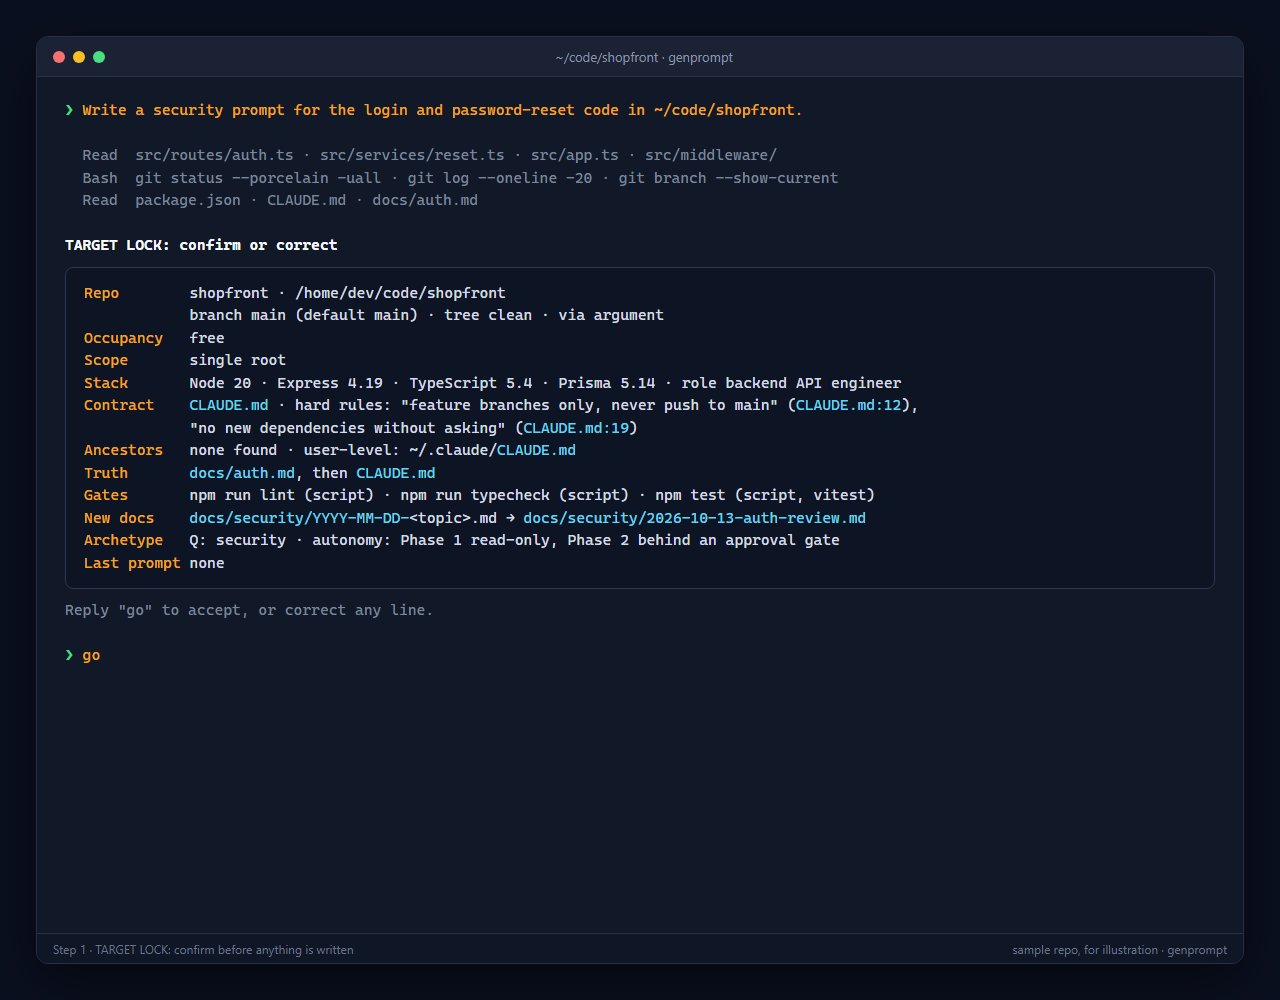
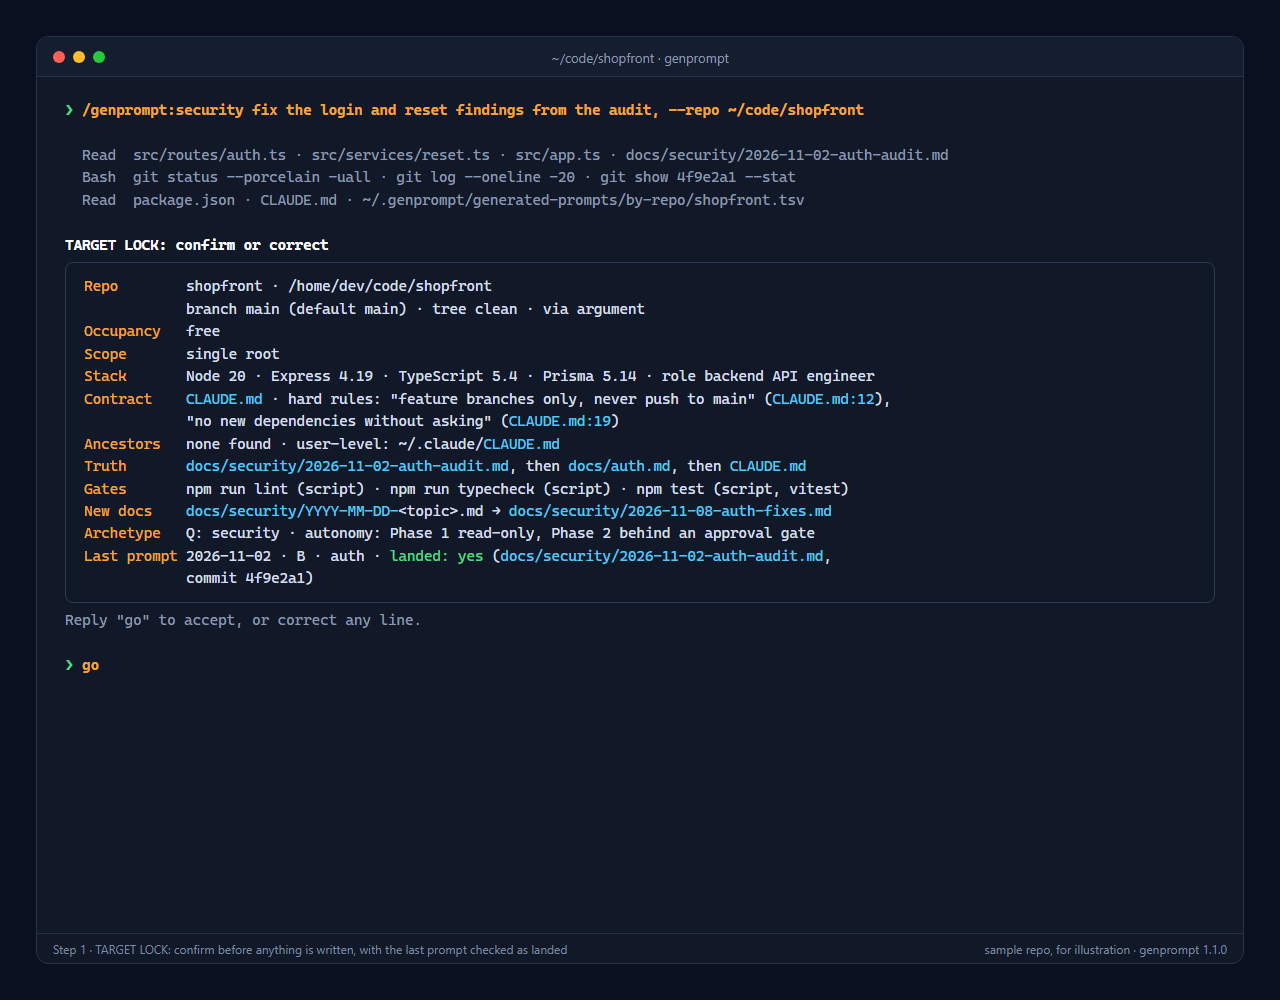
E-17c: refresh screenshots for 1.1.0
The three README screenshots are re-rendered (headless Chrome, 1280x1000,
same terminal style) from the made-up shopfront sample repo, showing the
1.1.0 output shape: the lock's Last prompt line with "landed: yes", the
prompt printed first with because-clauses and the GENPROMPT-REPORT line,
and the compact self-check verdict (22 PASS, 1 N/A, 0 FAIL) with the
one N/A row, the header table, grounding and the archive.py saved path.
README captions and alt text match; "23-row" is back in the alt text.

diff --git a/README.md b/README.md
@@ -32,20 +32,21 @@ Every prompt it writes:
 A security prompt for a made-up sample repo, `shopfront`. Every repo detail in these screenshots is
 invented; the structure is the real output.
 
-**1. The TARGET LOCK.** genprompt reads the repo and shows what it found. Nothing is written until
-you reply `go`.
+**1. The TARGET LOCK.** genprompt reads the repo and shows what it found, including whether the
+last prompt actually landed. Nothing is written until you reply `go`.
 
-![TARGET LOCK for the sample repo: repo, branch, stack, contract, gates and archetype](assets/screenshot-1-target-lock.png)
+![TARGET LOCK for the sample repo: repo, branch, stack, contract, gates, archetype and the last prompt checked as landed](assets/screenshot-1-target-lock.png)
 
-**2. The prompt.** One fenced block to paste into the worker chat, with `file:line` citations and
-literal gates.
+**2. The prompt.** It prints first: one fenced block to paste into the worker chat, with
+`file:line` citations, literal gates, and a report spec that starts with a `GENPROMPT-REPORT` line.
 
 ![The generated security prompt for the sample repo](assets/screenshot-2-prompt.png)
 
-**3. Grounding and self-check.** The findings that shaped the prompt, then the 23-row self-check
+**3. Self-check and grounding.** A one-line verdict for the 23-row self-check and only the rows that
+need attention (the full table goes to the archive file), then the findings that shaped the prompt
 and the archive path.
 
-![Grounding notes and the self-check table](assets/screenshot-3-self-check.png)
+![The compact 23-row self-check verdict, grounding notes and the archive path](assets/screenshot-3-self-check.png)
 
 ## Install
 

diff --git a/CHANGELOG.md b/CHANGELOG.md
@@ -25,6 +25,8 @@ One line per rule change: `- <YYYY-MM-DD> · <file> · <what changed and why>`.
   their purpose, and points to :help for the rest, in one message.
 - 2026-11-07 · PROTOCOL.md, tools/doctor.py, utilities/history.md · flags/via/lock vocabulary pinned;
   lock shows landed:; doctor and :history report via/lock/flag stats; width-aware stub check.
+- 2026-11-08 · assets/, README.md · Screenshots re-rendered from the sample repo to show 1.1.0 output:
+  the lock's landed check, the GENPROMPT-REPORT line, the compact self-check.
 
 ## 1.0.0 (2026-09-24): first public release
 
